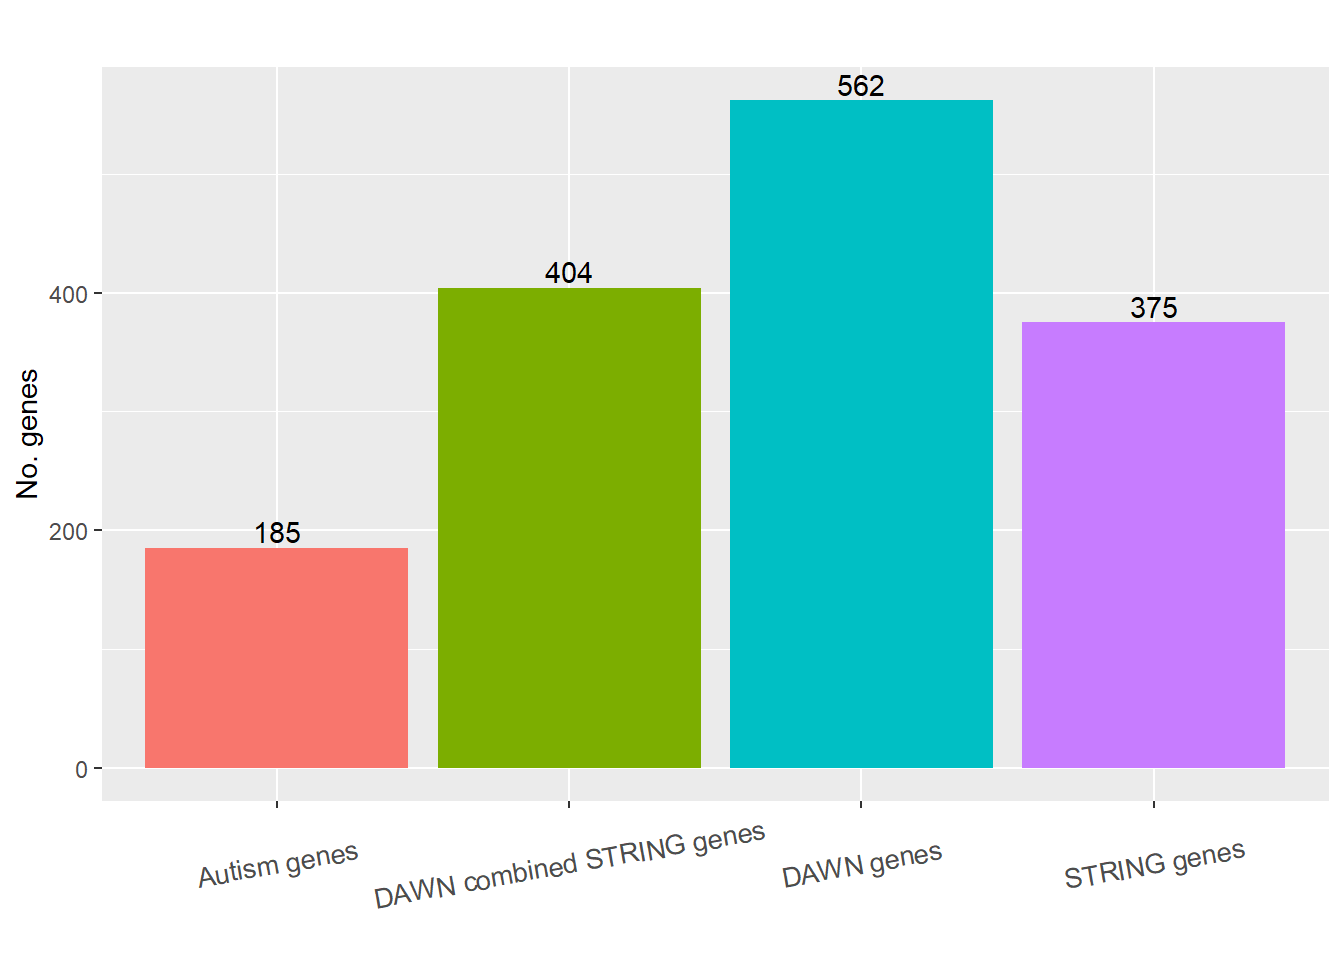
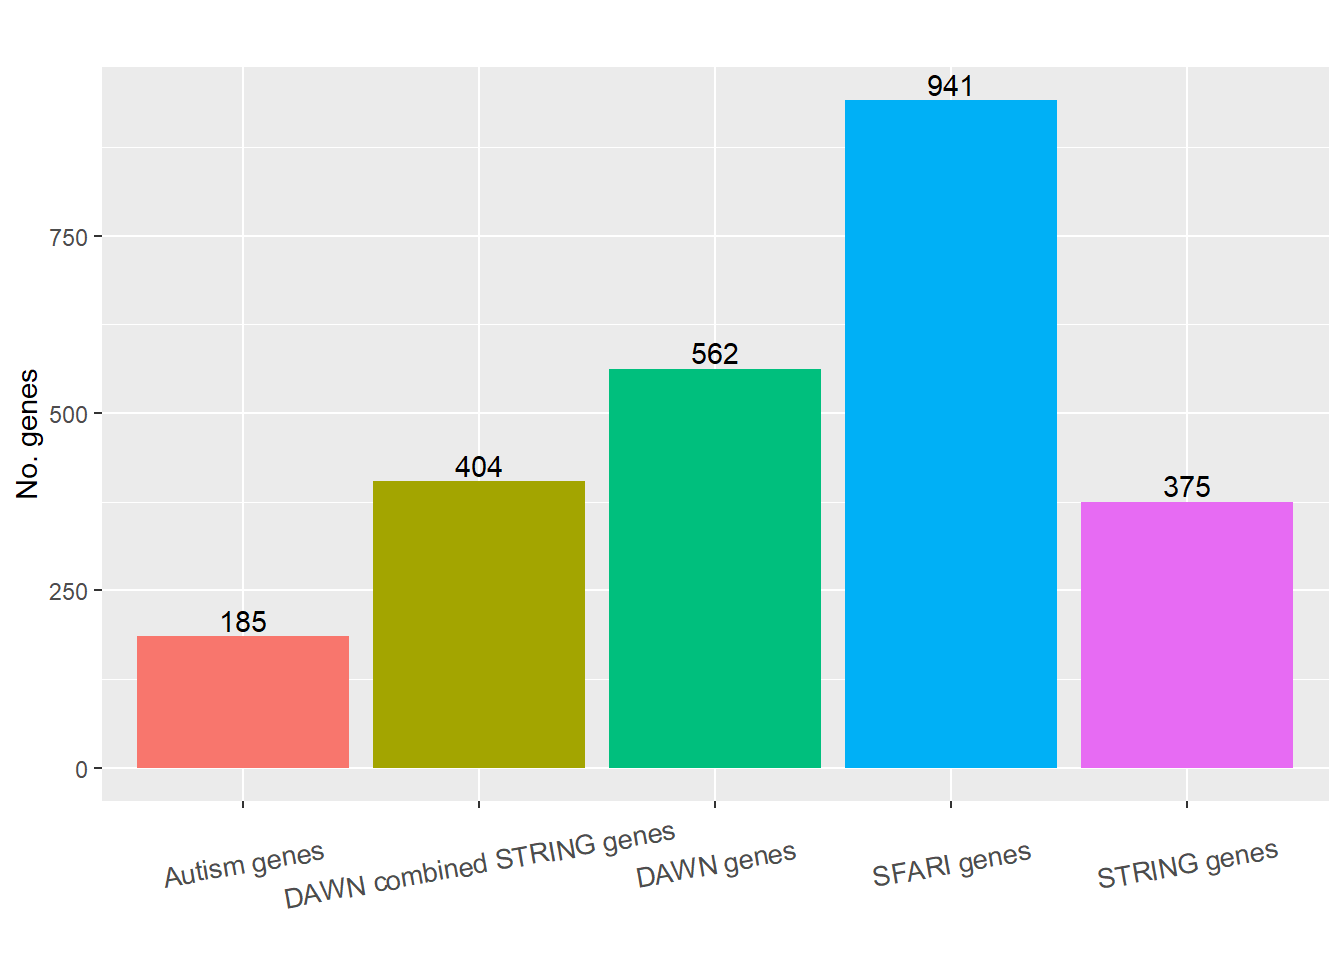
10/16/2024

diff --git a/docs/part4.enrichment.html b/docs/part4.enrichment.html
@@ -534,15 +534,15 @@ project makes it easier to run your code on other machines.</p>
 <div class="panel panel-default">
 <div class="panel-heading">
 <p class="panel-title">
-<a data-toggle="collapse" data-parent="#workflowr-checks" href="#strongRepositoryversionstrongahrefhttpsgithubcomhan16IntegratePPItreeadbbc706196410b6f1b5b1b26506ca985e8439aetargetblankadbbc70a">
+<a data-toggle="collapse" data-parent="#workflowr-checks" href="#strongRepositoryversionstrongahrefhttpsgithubcomhan16IntegratePPItree72226051c7ac8efba997226700683f33c9e9e71dtargetblank7222605a">
 <span class="glyphicon glyphicon-ok text-success"
 aria-hidden="true"></span> <strong>Repository version:</strong>
-<a href="https://github.com/han16/IntegratePPI/tree/adbbc706196410b6f1b5b1b26506ca985e8439ae" target="_blank">adbbc70</a>
+<a href="https://github.com/han16/IntegratePPI/tree/72226051c7ac8efba997226700683f33c9e9e71d" target="_blank">7222605</a>
 </a>
 </p>
 </div>
 <div
[2 lines of base64/hex data omitted]
 class="panel-collapse collapse">
 <div class="panel-body">
 <p>
@@ -552,7 +552,7 @@ reproducibility.
 </p>
 <p>
 The results in this page were generated with repository version
-<a href="https://github.com/han16/IntegratePPI/tree/adbbc706196410b6f1b5b1b26506ca985e8439ae" target="_blank">adbbc70</a>.
+<a href="https://github.com/han16/IntegratePPI/tree/72226051c7ac8efba997226700683f33c9e9e71d" target="_blank">7222605</a>.
 See the <em>Past versions</em> tab to see a history of the changes made
 to the R Markdown and HTML files.
 </p>
@@ -571,9 +571,8 @@ Ignored files:
     Ignored:    analysis/string_cache/
 
 Untracked files:
-    Untracked:  VennDiagram.2024-10-16_10-32-53.746744.log
-    Untracked:  VennDiagram.2024-10-16_10-33-28.535012.log
-    Untracked:  VennDiagram.2024-10-16_10-34-00.082642.log
+    Untracked:  analysis/VennDiagram.2024-10-16_11-11-45.63452.log
+    Untracked:  analysis/VennDiagram.2024-10-16_11-12-14.967188.log
 
 Unstaged changes:
     Modified:   analysis/part4.enrichment.Rmd
@@ -622,6 +621,40 @@ Message
 </tr>
 </thead>
 <tbody>
+<tr>
+<td>
+Rmd
+</td>
+<td>
+<a href="https://github.com/han16/IntegratePPI/blob/72226051c7ac8efba997226700683f33c9e9e71d/analysis/part4.enrichment.Rmd" target="_blank">7222605</a>
+</td>
+<td>
+han
+</td>
+<td>
+2024-10-16
+</td>
+<td>
+10/16/2024
+</td>
+</tr>
+<tr>
+<td>
+html
+</td>
+<td>
+<a href="https://rawcdn.githack.com/han16/IntegratePPI/72226051c7ac8efba997226700683f33c9e9e71d/docs/part4.enrichment.html" target="_blank">7222605</a>
+</td>
+<td>
+han
+</td>
+<td>
+2024-10-16
+</td>
+<td>
+10/16/2024
+</td>
+</tr>
 <tr>
 <td>
 Rmd
@@ -737,10 +770,15 @@ asd_185_genes=Jack_fu_data$gene[which(Jack_fu_data$FDR_TADA_ASD&lt;0.05)]  # 185
 
 load(&quot;C:\\han\\Projects\\Multi_Omics\\JackFu_2022\\result_FDR0.05_adj_pfc35.RData&quot;)
 load(&quot;C:\\han\\Projects\\Multi_Omics\\JackFu_2022\\result_FDR0.05_string_incidence.RData&quot;)
-load(&quot;C:\\han\\Projects\\Multi_Omics\\JackFu_2022\\result_FDR0.05_adj_string_combine_incidence.RData&quot;)</code></pre>
+load(&quot;C:\\han\\Projects\\Multi_Omics\\JackFu_2022\\result_FDR0.05_adj_string_combine_incidence.RData&quot;)
+
+## SFARI gene set 
+SFARI_data=read.csv(&quot;C:\\han\\Dataset\\SFARI_base\\SFARI-Gene_genes_08-19-2024release_09-16-2024export.csv&quot;, header=T)
+
+sfari_gene=SFARI_data %&gt;% filter(gene.score==1 | gene.score==2) %&gt;% select(gene.symbol) %&gt;% pull() # extract sfari genes in category 1 and 2 </code></pre>
 <div id="estimated-risk-genes" class="section level2">
 <h2>estimated risk genes</h2>
-<pre class="r"><code>ggplot(data.frame(gene_set=c(&quot;Autism genes&quot;,&quot;DAWN genes&quot; , &quot;STRING genes&quot;, &quot;DAWN combined STRING genes&quot;), num_genes=c(length(asd_185_genes), length(genes_pfc35), length(genes_pfc35_string), length(genes_pfc35_string_combine_adj))), aes(x=gene_set, y=num_genes, fill=gene_set))+
+<pre class="r"><code>ggplot(data.frame(gene_set=c(&quot;Autism genes&quot;,&quot;DAWN genes&quot; , &quot;STRING genes&quot;, &quot;DAWN combined STRING genes&quot;, &quot;SFARI genes&quot;), num_genes=c(length(asd_185_genes), length(genes_pfc35), length(genes_pfc35_string), length(genes_pfc35_string_combine_adj), length(sfari_gene))), aes(x=gene_set, y=num_genes, fill=gene_set))+
   geom_bar(position = &quot;dodge&quot;,stat=&quot;identity&quot;)+
    xlab(&quot;&quot;)+ylab(&quot;No. genes&quot;)+
  #  ylim(c(0,1))+
@@ -754,6 +792,43 @@ load(&quot;C:\\han\\Projects\\Multi_Omics\\JackFu_2022\\result_FDR0.05_adj_strin
   theme(legend.title=element_blank())+
   theme(legend.position = &quot;none&quot;)</code></pre>
 <p><img src="figure/part4.enrichment.Rmd/unnamed-chunk-3-1.png" width="672" style="display: block; margin: auto;" /></p>
+<p>
+<button type="button" class="btn btn-default btn-xs btn-workflowr btn-workflowr-fig" data-toggle="collapse" data-target="#fig-unnamed-chunk-3-1">
+Past versions of unnamed-chunk-3-1.png
+</button>
+</p>
+<div id="fig-unnamed-chunk-3-1" class="collapse">
+<div class="table-responsive">
+<table class="table table-condensed table-hover">
+<thead>
+<tr>
+<th>
+Version
+</th>
+<th>
+Author
+</th>
+<th>
+Date
+</th>
+</tr>
+</thead>
+<tbody>
+<tr>
+<td>
+<a href="https://github.com/han16/IntegratePPI/blob/72226051c7ac8efba997226700683f33c9e9e71d/docs/figure/part4.enrichment.Rmd/unnamed-chunk-3-1.png" target="_blank">7222605</a>
+</td>
+<td>
+han
+</td>
+<td>
+2024-10-16
+</td>
+</tr>
+</tbody>
+</table>
+</div>
+</div>
 </div>
 <div id="enrichment-with-185-autism-genes" class="section level2">
 <h2>enrichment with 185 autism genes</h2>
@@ -794,6 +869,80 @@ display_venn(
          cat.dist = c(0.055, 0.055, 0.1, 0.1 )
 )</code></pre>
 <p><img src="figure/part4.enrichment.Rmd/unnamed-chunk-4-1.png" width="672" style="display: block; margin: auto;" /></p>
+<p>
+<button type="button" class="btn btn-default btn-xs btn-workflowr btn-workflowr-fig" data-toggle="collapse" data-target="#fig-unnamed-chunk-4-1">
+Past versions of unnamed-chunk-4-1.png
+</button>
+</p>
+<div id="fig-unnamed-chunk-4-1" class="collapse">
+<div class="table-responsive">
+<table class="table table-condensed table-hover">
+<thead>
+<tr>
+<th>
+Version
+</th>
+<th>
+Author
+</th>
+<th>
+Date
+</th>
+</tr>
+</thead>
+<tbody>
+<tr>
+<td>
+<a href="https://github.com/han16/IntegratePPI/blob/72226051c7ac8efba997226700683f33c9e9e71d/docs/figure/part4.enrichment.Rmd/unnamed-chunk-4-1.png" target="_blank">7222605</a>
+</td>
+<td>
+han
+</td>
+<td>
+2024-10-16
+</td>
+</tr>
+</tbody>
+</table>
+</div>
+</div>
+<pre class="r"><code>x=list(
+  sfari_genes=sfari_gene,
+  genes_pfc35=genes_pfc35,
+  genes_pfc35_string=genes_pfc35_string,
+  genes_pfc35_string_combine_adj=genes_pfc35_string_combine_adj
+
+)
+
+display_venn &lt;- function(x, ...){
+  library(VennDiagram)
+  grid.newpage()
+  venn_object &lt;- venn.diagram(x, filename = NULL, ...)
+  grid.draw(venn_object)
+}
+
+#png(&quot;C:\\Users\\hans\\OneDrive - Marquette University\\SCZ-DAWN\\Figures\\Fig_overlapping_genes.png&quot;)
+
+display_venn(
+        x,
+    #    category.names = c(&quot;MIRAGE FDR genes&quot; , &quot;Autism genes&quot; , &quot;DD/ID genes&quot;, &quot;SCZ GWAS genes&quot;),
+    category.names = c(&quot;SFARI genes&quot; , &quot;DAWN genes&quot; , &quot;STRING genes&quot;, &quot;DAWN combined STRING genes&quot;),
+        # Circles
+        lwd = 2,
+        lty = &#39;blank&#39;,
+     #   fill = c(&quot;#999999&quot;, &quot;#E69F00&quot;, &quot;#56B4E9&quot;, &quot;#009E73&quot;),
+    fill = c(&quot;red&quot;, &quot;blue&quot;, &quot;green&quot;, &quot;yellow&quot;),
+        # Numbers
+        cex = 1.5,
+        fontface = &quot;italic&quot;,
+        # Set names
+        cat.cex = 1.2,
+        cat.fontface = &quot;bold&quot;,
+        cat.default.pos = &quot;outer&quot;,
+       # cat.dist = c(0.055, 0.055, 0.1, 0.1, 0.3 )
+         cat.dist = c(0.055, 0.055, 0.1, 0.1 )
+)</code></pre>
+<p><img src="figure/part4.enrichment.Rmd/unnamed-chunk-5-1.png" width="672" style="display: block; margin: auto;" /></p>
 </div>
 <div id="venn-diagrams-of-different-gene-sets" class="section level2">
 <h2>Venn diagrams of different gene sets</h2>
@@ -831,27 +980,30 @@ attached base packages:
 [8] base     
 
 other attached packages:
-[1] ggplot2_3.5.1       VennDiagram_1.7.3   futile.logger_1.4.3
+ [1] lubridate_1.9.3     forcats_1.0.0       stringr_1.5.1      
+ [4] dplyr_1.1.4         purrr_1.0.2         readr_2.1.5        
+ [7] tidyr_1.3.1         tibble_3.2.1        tidyverse_2.0.0    
+[10] ggplot2_3.5.1       VennDiagram_1.7.3   futile.logger_1.4.3
 
 loaded via a namespace (and not attached):
  [1] sass_0.4.9           utf8_1.2.4           generics_0.1.3      
- [4] futile.options_1.0.1 stringi_1.8.4        digest_0.6.35       
- [7] magrittr_2.0.3       evaluate_0.23        fastmap_1.1.1       
-[10] rprojroot_2.0.4      workflowr_1.7.1      jsonlite_1.8.8      
-[13] whisker_0.4.1        formatR_1.14         promises_1.3.0      
-[16] fansi_1.0.6          scales_1.3.0         jquerylib_0.1.4     
-[19] cli_3.6.2            rlang_1.1.3          munsell_0.5.1       
-[22] withr_3.0.0          cachem_1.0.8         yaml_2.3.8          
-[25] tools_4.4.0          dplyr_1.1.4          colorspace_2.1-0    
-[28] httpuv_1.6.15        lambda.r_1.2.4       vctrs_0.6.5         
-[31] R6_2.5.1             lifecycle_1.0.4      git2r_0.33.0        
-[34] stringr_1.5.1        fs_1.6.4             pkgconfig_2.0.3     
-[37] pillar_1.9.0         bslib_0.7.0          later_1.3.2         
-[40] gtable_0.3.5         glue_1.7.0           Rcpp_1.0.12         
-[43] highr_0.10           xfun_0.43            tibble_3.2.1        
+ [4] futile.options_1.0.1 stringi_1.8.4        hms_1.1.3           
+ [7] digest_0.6.35        magrittr_2.0.3       timechange_0.3.0    
+[10] evaluate_0.23        fastmap_1.1.1        rprojroot_2.0.4     
+[13] workflowr_1.7.1      jsonlite_1.8.8       whisker_0.4.1       
+[16] formatR_1.14         promises_1.3.0       fansi_1.0.6         
+[19] scales_1.3.0         jquerylib_0.1.4      cli_3.6.2           
+[22] rlang_1.1.3          munsell_0.5.1        withr_3.0.0         
+[25] cachem_1.0.8         yaml_2.3.8           tools_4.4.0         
+[28] tzdb_0.4.0           colorspace_2.1-0     httpuv_1.6.15       
+[31] lambda.r_1.2.4       vctrs_0.6.5          R6_2.5.1            
+[34] lifecycle_1.0.4      git2r_0.33.0         fs_1.6.4            
+[37] pkgconfig_2.0.3      pillar_1.9.0         bslib_0.7.0         
+[40] later_1.3.2          gtable_0.3.5         glue_1.7.0          
+[43] Rcpp_1.0.12          highr_0.10           xfun_0.43           
 [46] tidyselect_1.2.1     rstudioapi_0.16.0    knitr_1.46          
-[49] farver_2.1.2         htmltools_0.5.8.1    rmarkdown_2.26      
-[52] labeling_0.4.3       compiler_4.4.0      </code></pre>
+[49] farver_2.1.2         htmltools_0.5.8.1    labeling_0.4.3      
+[52] rmarkdown_2.26       compiler_4.4.0      </code></pre>
 </div>
 </div>
 
